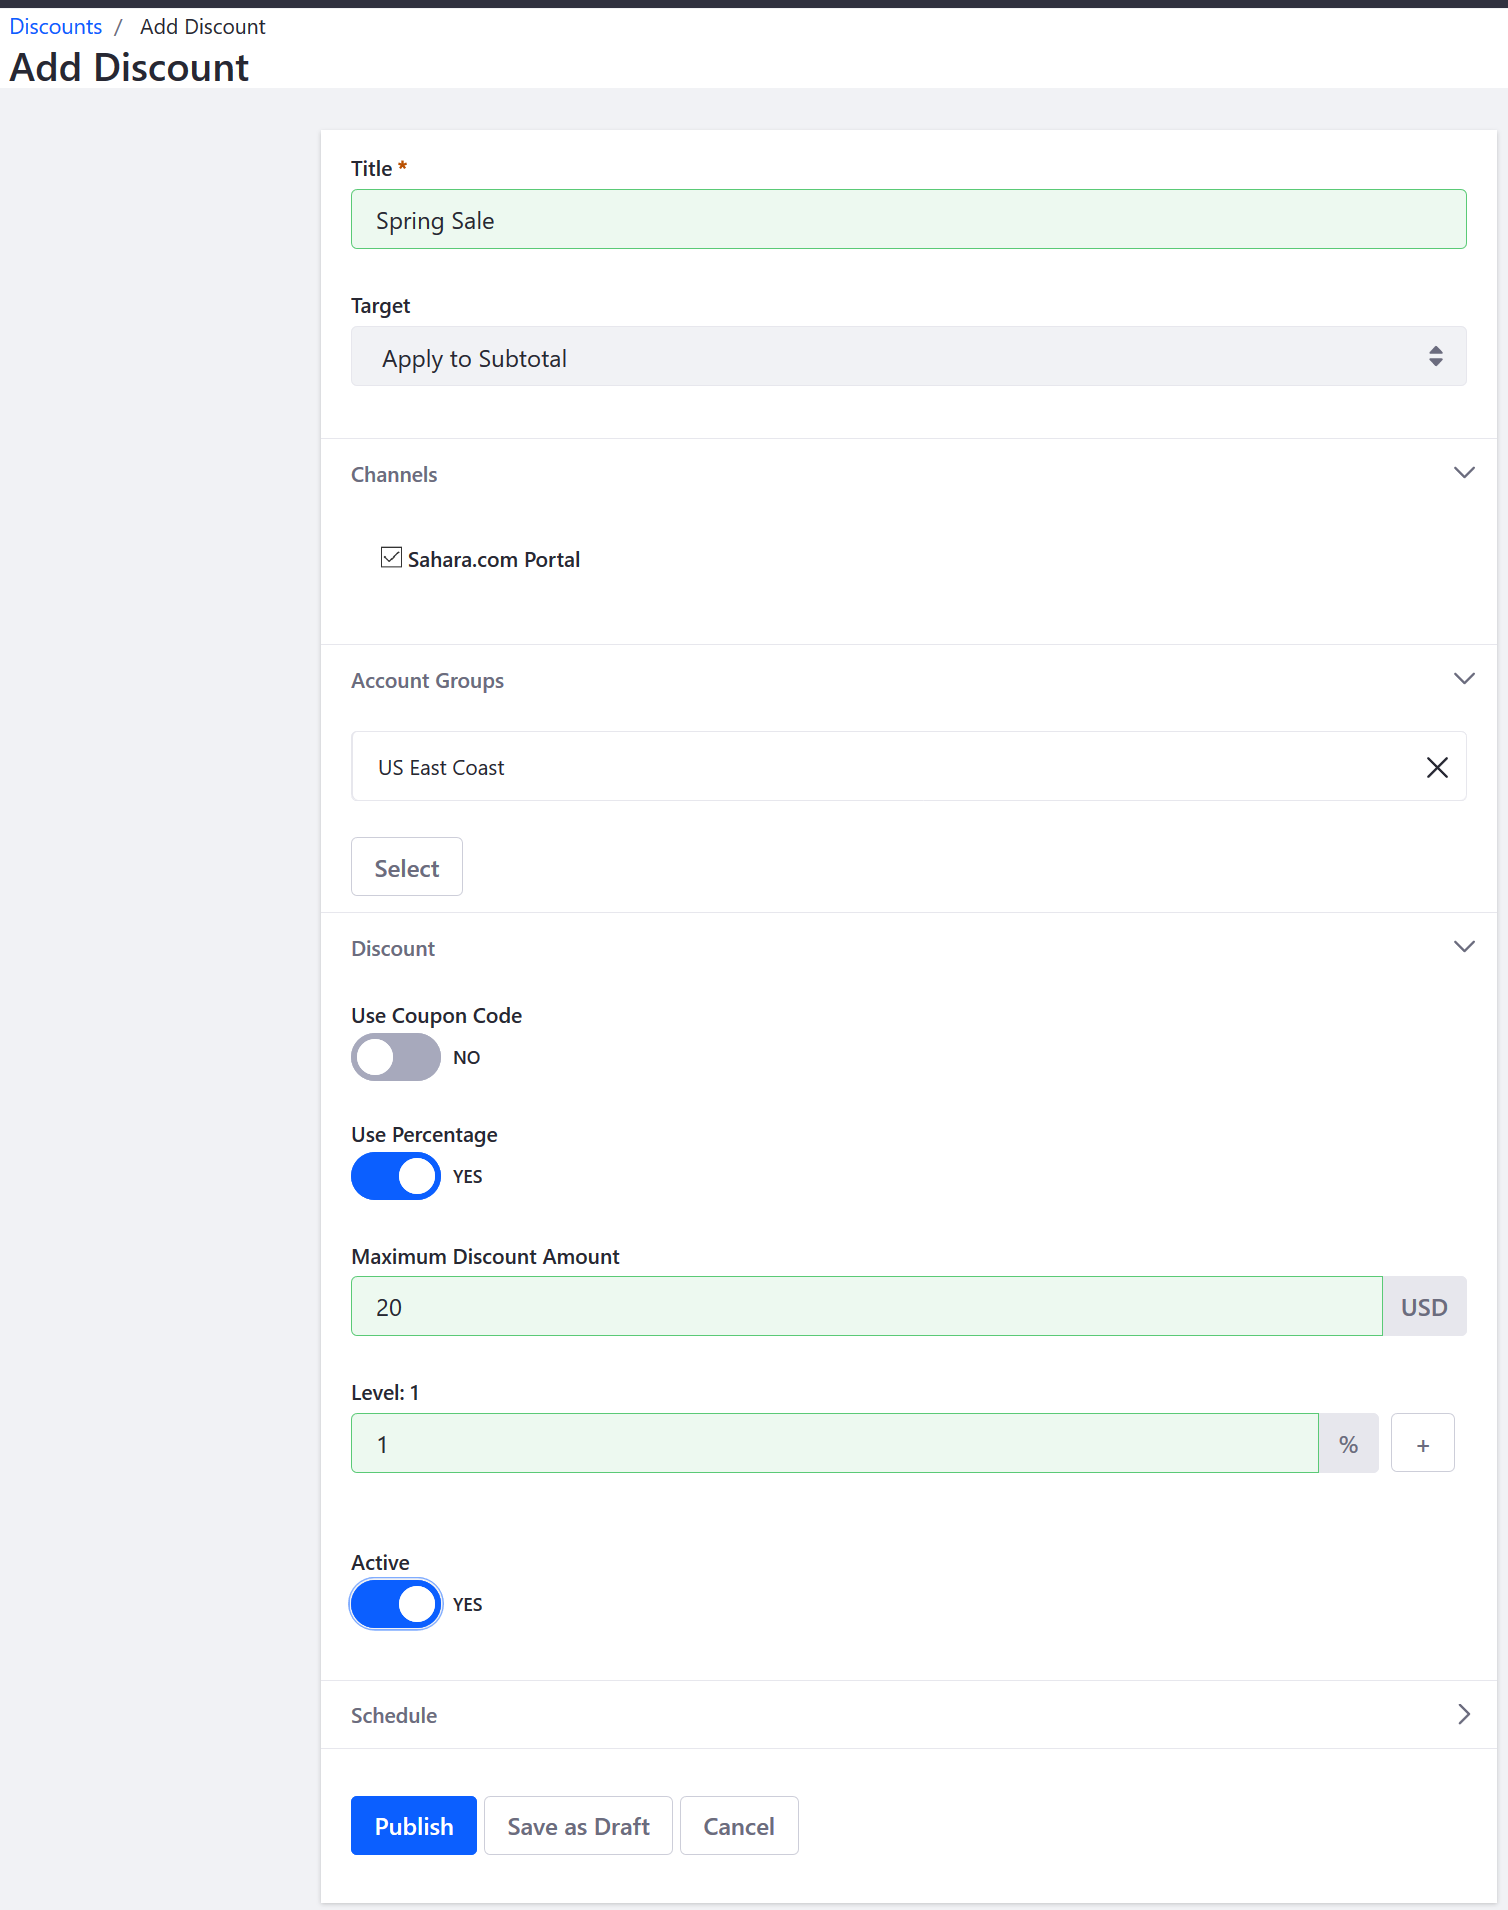
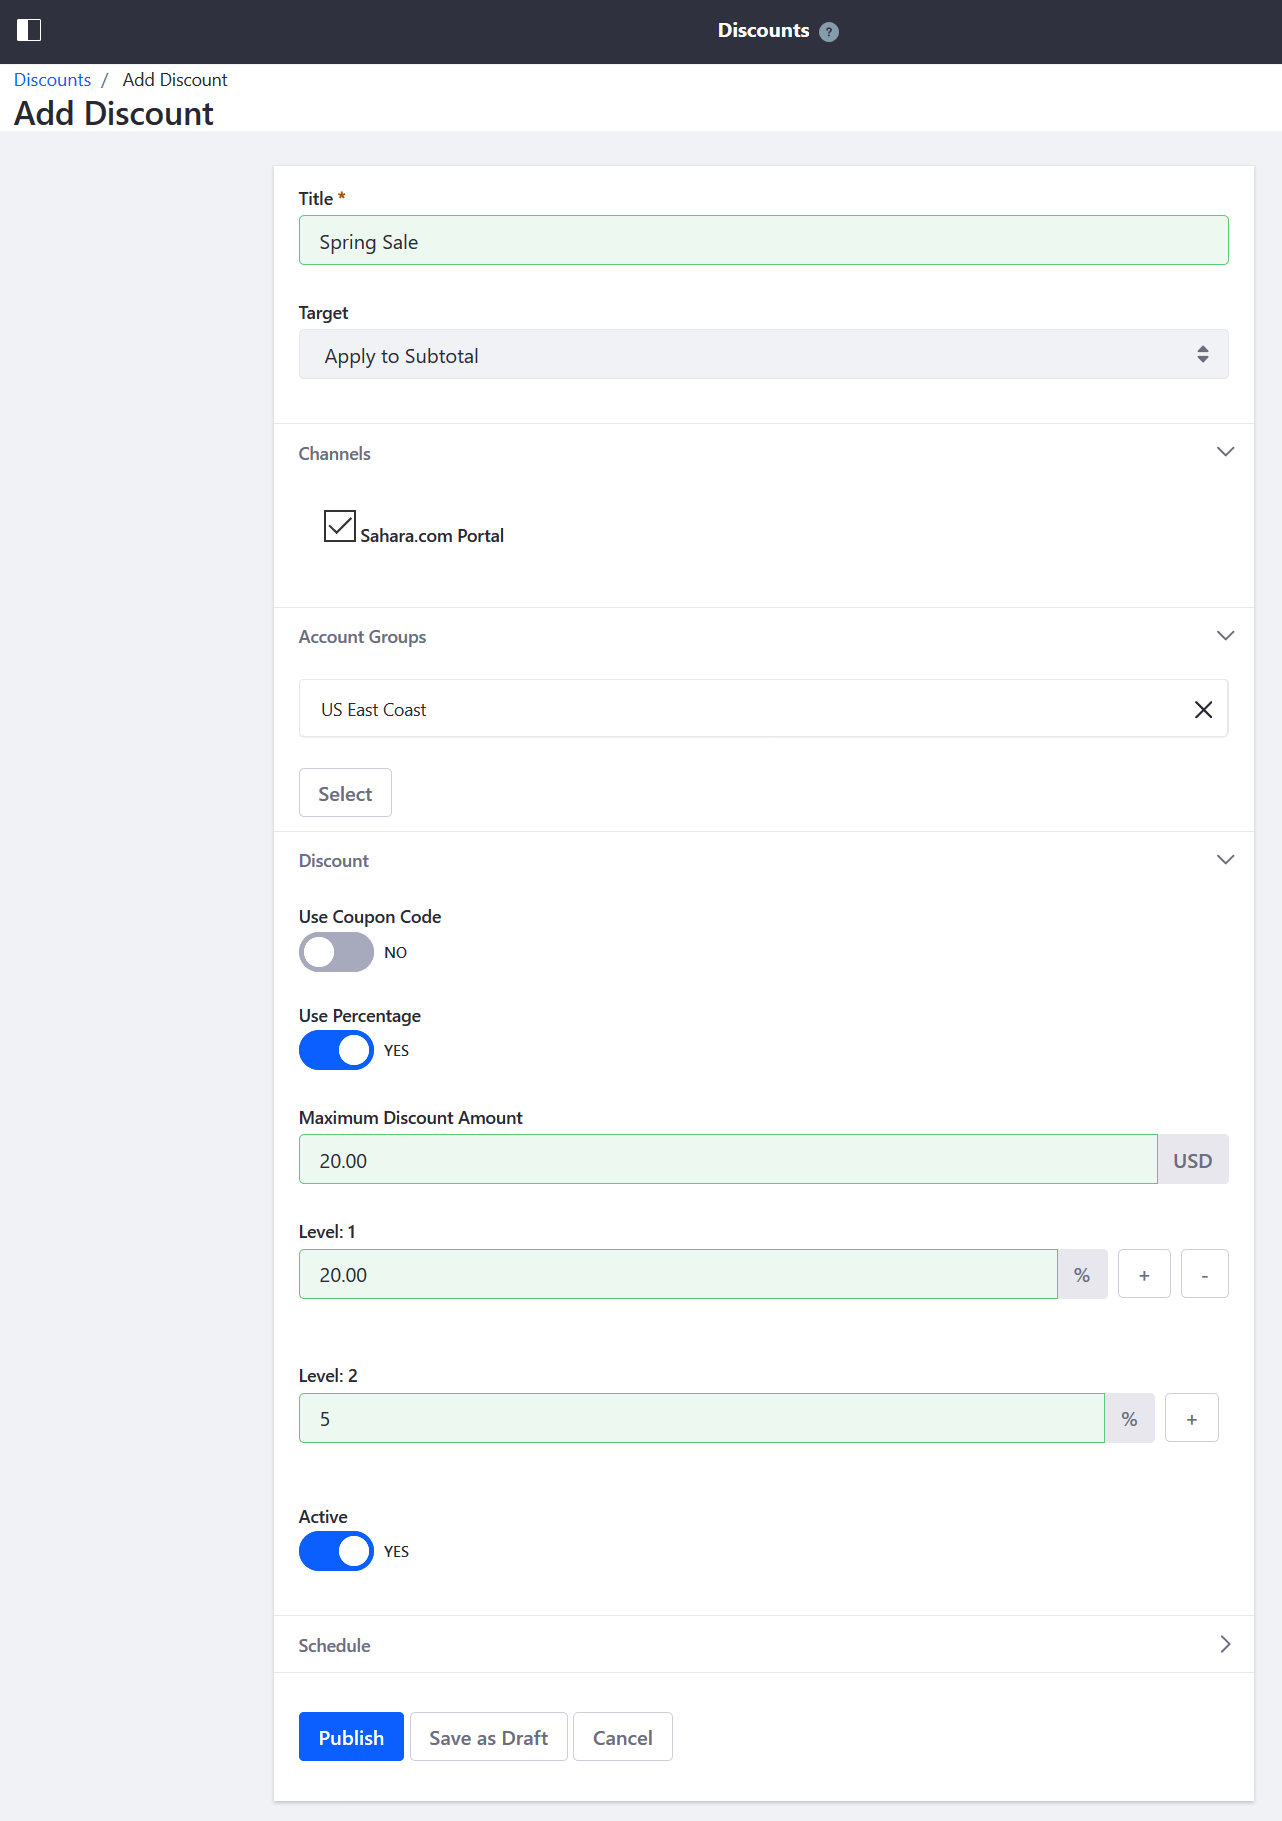
Updated discounts docs

diff --git a/docs/commerce/2.x/en/promoting-products/introduction-to-discounts.md b/docs/commerce/2.x/en/promoting-products/introduction-to-discounts.md
@@ -3,7 +3,7 @@
 Discounts are created in the _Control Panel_ &rarr; _Commerce_ &rarr; _Discounts_. Users can create multiple types of discounts, from reducing the price for specific products to offering free shipment. Furthermore, a discount can be applied to all buyers, a specific [Account Group](../account-management/creating-a-new-account-group.md), or to a more narrowly defined group of customers that meet certain qualifications.
 
 ```tip::
-   Discounts are not the same as price lists. For more information on Pricing see `Introduction to Product Pricing Methods <../managing-a-catalog/managing-price/introduction-to-product-pricing-methods.md>`_.
+   Discounts are not the same as price lists. For more information on Pricing see `Introduction to Product Pricing Methods <../managing-a-catalog/managing-price/introduction-to-product-pricing-methods.md>`_, `Creating a Price List <../managing-a-catalog/managing-price/creating-a-price-list.md>`_, and `Adding Tiered Pricing <../managing-a-catalog/managing-price/adding-tiered-pricing.md>`_.
 ```
 
 ## Discount Types
@@ -13,7 +13,7 @@ The following types of discounts are available:
 | Discount Type | Description |
 | --- | --- |
 | Categories | The discount is applied to all products tagged with a specific [Category](../managing-a-catalog/creating-and-managing-products/products/organizing-your-catalog-with-product-categories.md). |
-| Products | The discount is applied to a specific product.  |
+| Products | The discount is applied to a specific product or list of products.  |
 | Shipments | The discount is applied to the shipment costs, either by a percentage or flat sum. |
 | Subtotal | The order's subtotal is reduced, usually before taxes and other fees are applied. |
 | Total | The discount is applied to the entire total. |
@@ -30,7 +30,7 @@ The devs inadvertently added Pricing Class as a new discount type which adds a t
 
 ## Coupon Codes
 
-Regardless of which discount type you choose, you can make a discount even more exclusive by offering a coupon code. This code can be shared through emails, newsletters, or ads.
+Regardless of which discount type you choose, you can make a discount more exclusive by requiring a coupon code. You can generate a coupon code then share it through emails, newsletters, or ads.
 
 ![Activate the Coupon Code feature and enter a coupon code for this discount type.](./introduction-to-discounts/images/02.png)
 
@@ -40,7 +40,7 @@ To enable customers to enter the coupon code, the _Coupon Code Entry_ widget mus
 
 Once the customer has enter his coupon code to apply the discount, the discount is reflected in the updated Order Summary.
 
-![Place the Coupon Code Entry widget on the Checkout page.](./introduction-to-discounts/images/08.png)
+![Once applied, the discount is reflected in the order summary.](./introduction-to-discounts/images/08.png)
 
 ## Discount Percentages
 

diff --git a/docs/commerce/2.x/en/promoting-products/creating-a-discount.md b/docs/commerce/2.x/en/promoting-products/creating-a-discount.md
@@ -1,19 +1,19 @@
 # Creating a Discount
 
-Discounts can be applied to a combination of target customers and can be set as a flat sum or as a percentage. See the [Introduction to Discounts](./introduction-to-discounts.md/#types-of-discounts) article to review the types of discounts available.
+Discounts can be applied to a combination of products and target customers or a reduced shipping costs. Furthermore, discounts can be set as a flat sum or as a percentage.
 
 To create a new discount:
 
 1. Go to the _Control Panel_ → _Commerce_ → _Discounts_.
 1. Click the (![Add](../images/icon-add.png)) button to add a new Discount.
 1. Enter a name: _Spring Sale_.
-1. Select a discount type (for example, _Apply to Subtotal_) from the _Target_ drop down.
+1. Select a discount type (for example, _Apply to Subtotal_) from the _Target_ drop down. (See [Discount Types](./introduction-to-discounts.md/#types-of-discounts) to learn more about the different discount types.)
 1. Check the box for which channel this discount applies to.
 1. Select which [Account Groups](../account-management/creating-a-new-account-group.md) this discount applies to. In this example, _US East Coast_.
 1. If using a coupon code, switch the _Use Coupon Code_ toggle to _Yes_. Then enter a code in the _Couple Code_ field. Otherwise leave it as _NO_.
-1. If using a percentage, switch the _Use Percentage_ toggle to _Yes_.
-1. Enter the _Maximum Discount Amount_: 20%.
-1. Enter the _Level_: 1.00
+1. If using a percentage, switch the _Use Percentage_ toggle to _Yes_. (See [Discount Percentages](./introduction-to-discounts.md/#discount-percentages) to learn more.)
+1. Enter the _Maximum Discount Amount_: $20.00
+1. Enter the _Level_: 20.00. This takes 20% off the subtotal.
 1. Switch the _Active_ toggle to _YES_.
 
     ![New discount](./creating-a-discount/images/01.png)
@@ -32,7 +32,7 @@ You can define rules that specify conditions to be met to qualify for a discount
 
 1. Click (+) button to add a new Discount Rule.
 1. Select _Cart Total_ from the _Type_ drop down menu.
-1. Enter 25.00 in the _Cart Total Minimum Amount_ field.
+1. Enter 15.00 in the _Cart Total Minimum Amount_ field.
 1. Click _Save_.
 
 In this example, a Discount Rule has been applied to this particular Discount. Customers will receive this discount for all purchases over the set amount.
@@ -41,3 +41,5 @@ In this example, a Discount Rule has been applied to this particular Discount. C
 
 * [Introduction to Discounts](./introduction-to-discounts.md)
 * [Creating a New Account Group](../account-management/creating-a-new-account-group.md)
+* [Creating a Price List](../managing-a-catalog/managing-price/creating-a-price-list.md)
+* [Adding Tiered Pricing](../managing-a-catalog/managing-price/adding-tiered-pricing.md)
